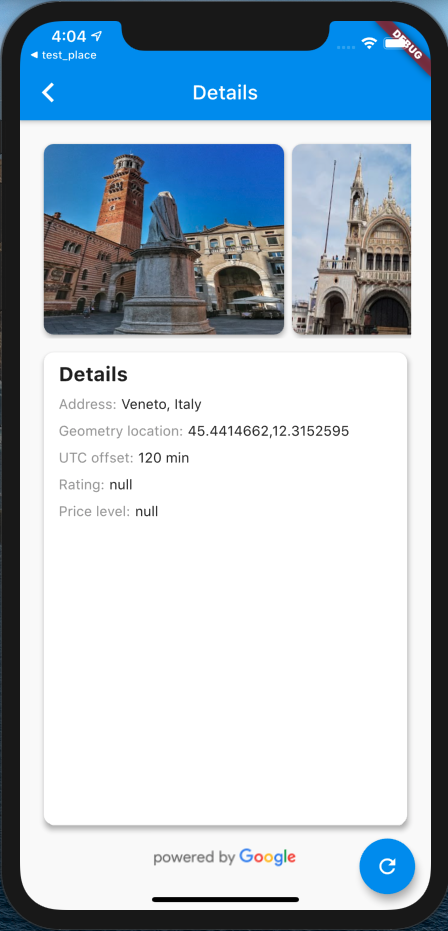
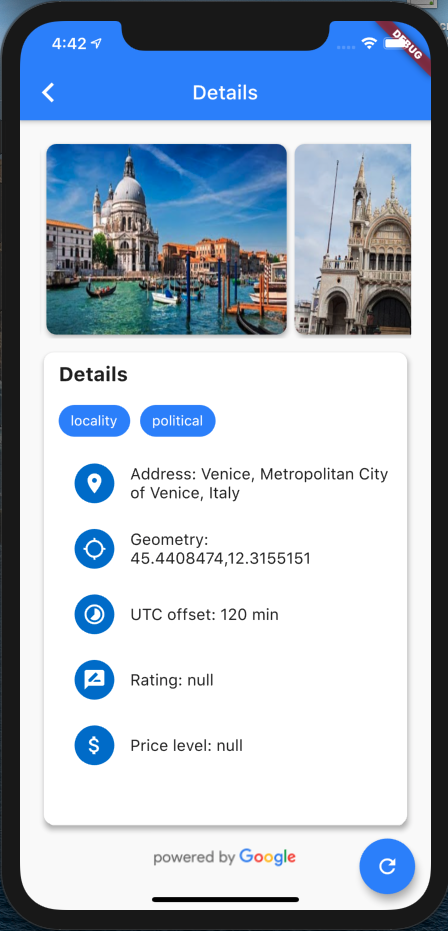
fix: update details page

diff --git a/example/lib/main.dart b/example/lib/main.dart
@@ -159,8 +159,10 @@ class _DetailsPageState extends State<DetailsPage> {
     return Scaffold(
       appBar: AppBar(
         title: Text("Details"),
+        backgroundColor: Colors.blueAccent,
       ),
       floatingActionButton: FloatingActionButton(
+        backgroundColor: Colors.blueAccent,
         onPressed: () {
           getDetils(this.placeId);
         },
@@ -218,90 +220,99 @@ class _DetailsPageState extends State<DetailsPage> {
                           ),
                         ),
                       ),
+                      detailsResult != null && detailsResult.types != null
+                          ? Container(
+                              margin: EdgeInsets.only(left: 15, top: 10),
+                              height: 50,
+                              child: ListView.builder(
+                                scrollDirection: Axis.horizontal,
+                                itemCount: detailsResult.types.length,
+                                itemBuilder: (context, index) {
+                                  return Container(
+                                    margin: EdgeInsets.only(right: 10),
+                                    child: Chip(
+                                      label: Text(
+                                        detailsResult.types[index],
+                                        style: TextStyle(
+                                          color: Colors.white,
+                                        ),
+                                      ),
+                                      backgroundColor: Colors.blueAccent,
+                                    ),
+                                  );
+                                },
+                              ),
+                            )
+                          : Container(),
                       Container(
                         margin: EdgeInsets.only(left: 15, top: 10),
-                        child: Row(
-                          children: <Widget>[
-                            Text(
-                              "Address: ",
-                              style: TextStyle(
-                                color: Colors.grey,
-                              ),
-                            ),
-                            Text(detailsResult != null &&
+                        child: ListTile(
+                          leading: CircleAvatar(
+                            child: Icon(Icons.location_on),
+                          ),
+                          title: Text(
+                            detailsResult != null &&
                                     detailsResult.formattedAddress != null
-                                ? detailsResult.formattedAddress
-                                : "null"),
-                          ],
+                                ? 'Address: ${detailsResult.formattedAddress}'
+                                : "Address: null",
+                          ),
                         ),
                       ),
                       Container(
                         margin: EdgeInsets.only(left: 15, top: 10),
-                        child: Row(
-                          children: <Widget>[
-                            Text(
-                              "Geometry location: ",
-                              style: TextStyle(
-                                color: Colors.grey,
-                              ),
-                            ),
-                            Text(detailsResult != null &&
+                        child: ListTile(
+                          leading: CircleAvatar(
+                            child: Icon(Icons.location_searching),
+                          ),
+                          title: Text(
+                            detailsResult != null &&
                                     detailsResult.geometry != null &&
                                     detailsResult.geometry.location != null
-                                ? '${detailsResult.geometry.location.lat.toString()},${detailsResult.geometry.location.lng.toString()}'
-                                : "null"),
-                          ],
+                                ? 'Geometry: ${detailsResult.geometry.location.lat.toString()},${detailsResult.geometry.location.lng.toString()}'
+                                : "Geometry: null",
+                          ),
                         ),
                       ),
                       Container(
                         margin: EdgeInsets.only(left: 15, top: 10),
-                        child: Row(
-                          children: <Widget>[
-                            Text(
-                              "UTC offset: ",
-                              style: TextStyle(
-                                color: Colors.grey,
-                              ),
-                            ),
-                            Text(detailsResult != null &&
+                        child: ListTile(
+                          leading: CircleAvatar(
+                            child: Icon(Icons.timelapse),
+                          ),
+                          title: Text(
+                            detailsResult != null &&
                                     detailsResult.utcOffset != null
-                                ? '${detailsResult.utcOffset.toString()} min'
-                                : "null"),
-                          ],
+                                ? 'UTC offset: ${detailsResult.utcOffset.toString()} min'
+                                : "UTC offset: null",
+                          ),
                         ),
                       ),
                       Container(
                         margin: EdgeInsets.only(left: 15, top: 10),
-                        child: Row(
-                          children: <Widget>[
-                            Text(
-                              "Rating: ",
-                              style: TextStyle(
-                                color: Colors.grey,
-                              ),
-                            ),
-                            Text(detailsResult != null &&
+                        child: ListTile(
+                          leading: CircleAvatar(
+                            child: Icon(Icons.rate_review),
+                          ),
+                          title: Text(
+                            detailsResult != null &&
                                     detailsResult.rating != null
-                                ? '${detailsResult.rating.toString()}'
-                                : "null"),
-                          ],
+                                ? 'Rating: ${detailsResult.rating.toString()}'
+                                : "Rating: null",
+                          ),
                         ),
                       ),
                       Container(
                         margin: EdgeInsets.only(left: 15, top: 10),
-                        child: Row(
-                          children: <Widget>[
-                            Text(
-                              "Price level: ",
-                              style: TextStyle(
-                                color: Colors.grey,
-                              ),
-                            ),
-                            Text(detailsResult != null &&
+                        child: ListTile(
+                          leading: CircleAvatar(
+                            child: Icon(Icons.attach_money),
+                          ),
+                          title: Text(
+                            detailsResult != null &&
                                     detailsResult.priceLevel != null
-                                ? '${detailsResult.priceLevel.toString()}'
-                                : "null"),
-                          ],
+                                ? 'Price level: ${detailsResult.priceLevel.toString()}'
+                                : "Price level: null",
+                          ),
                         ),
                       ),
                     ],
